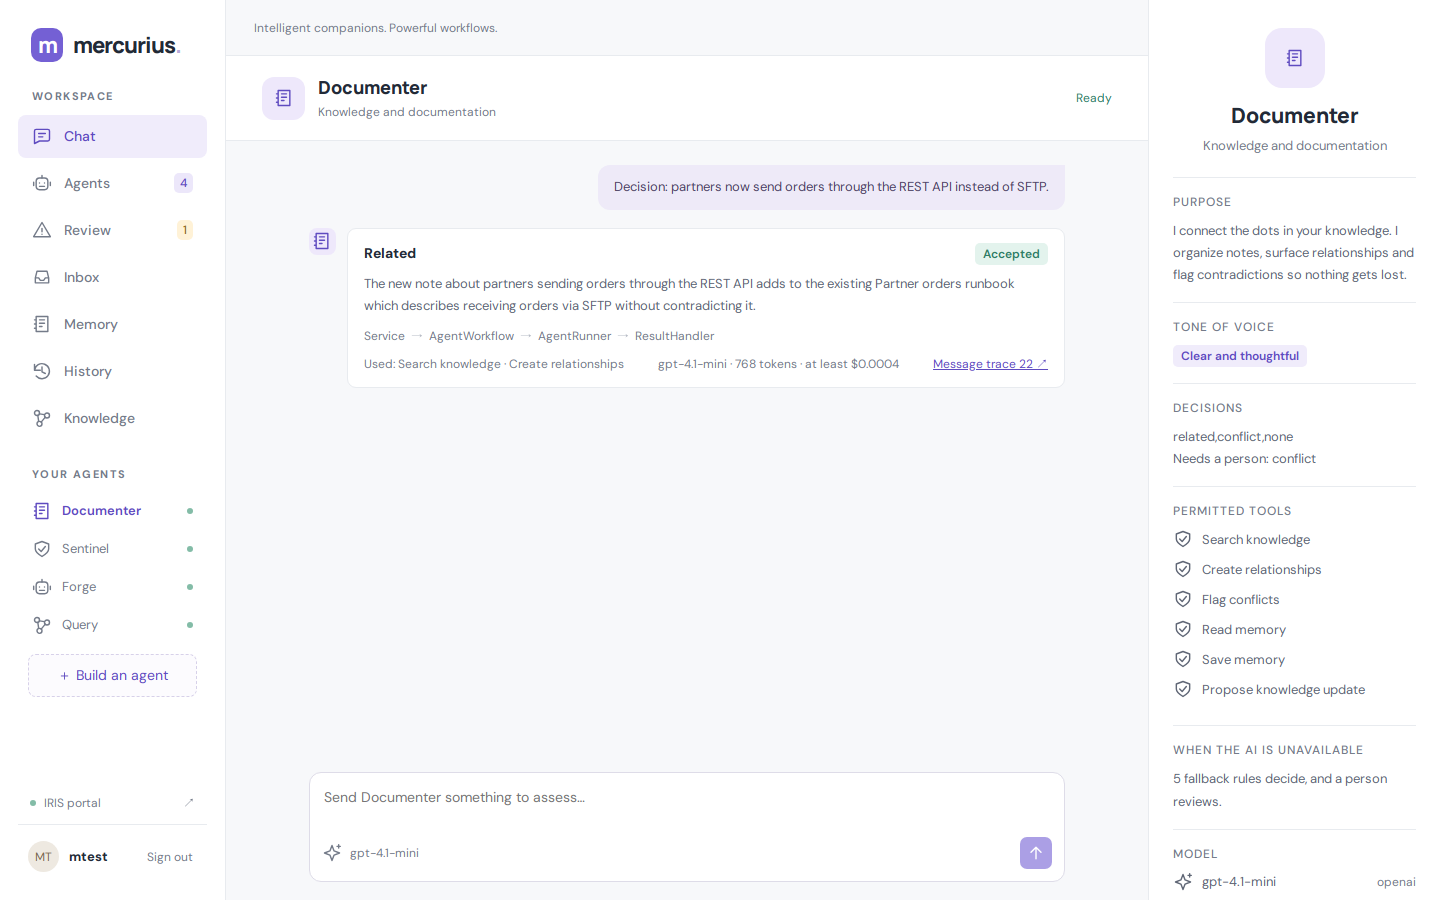
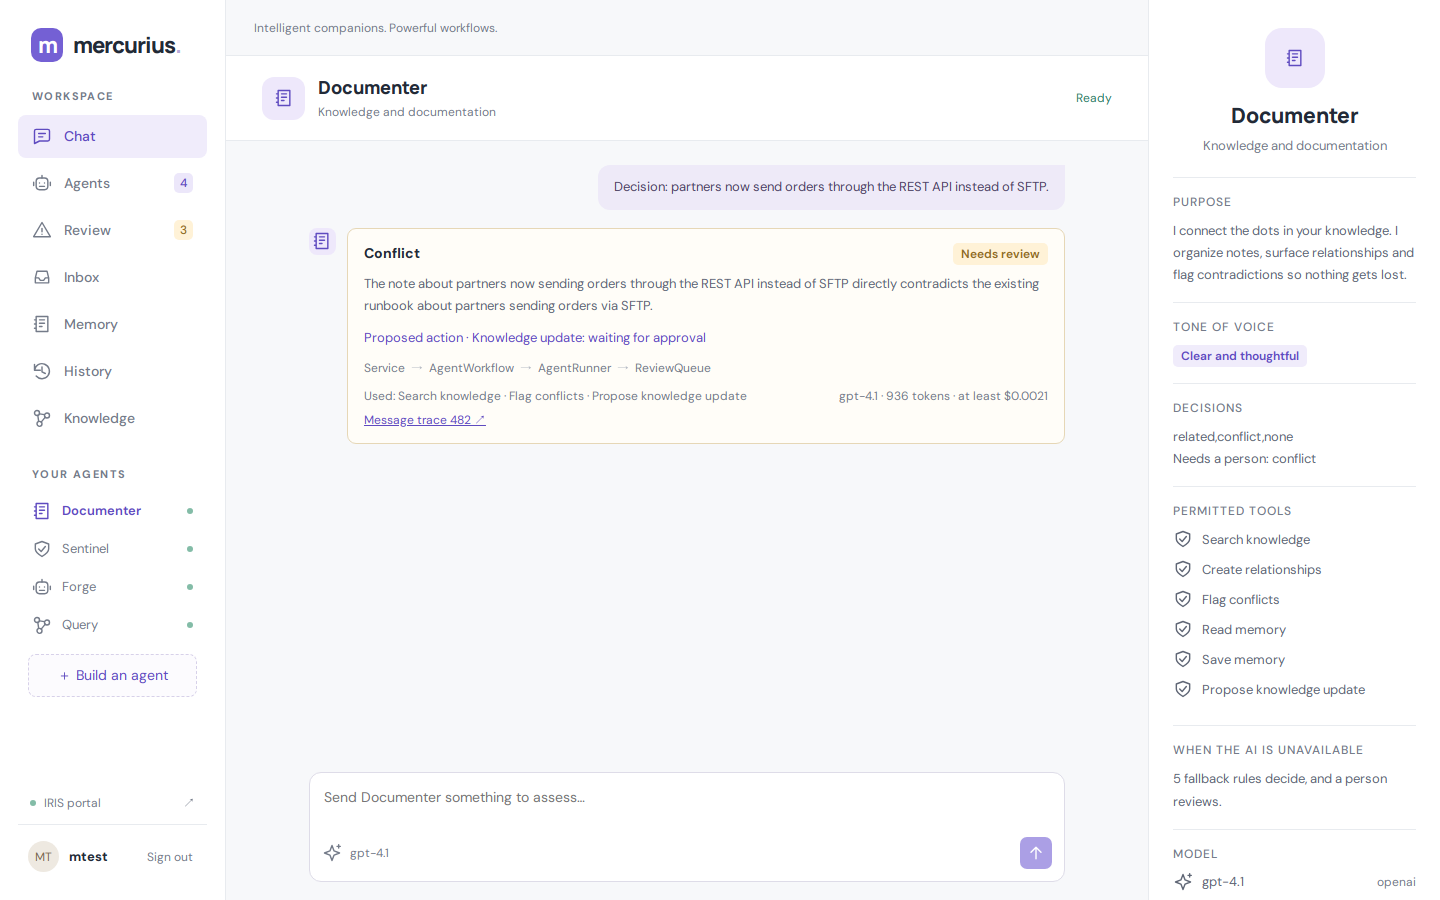
Default Documenter to gpt-4.1 after measured runs; refresh screenshots

Changed region(s): [[0.25, 0.2489, 0.75, 0.4978], [0.5938, 0.4044, 0.7188, 0.4667]]

diff --git a/README.md b/README.md
@@ -70,11 +70,11 @@ An invalid or failed reply never gets accepted: it goes to review.
 ## Measured results
 
 `Mercurius.Test.Eval` sends 55 labelled inputs through the production, with fresh sample
-knowledge for each. One run per agent on build 109, 2026-11-07 and 2026-11-08:
+knowledge for each. On build 109, 2026-11-07 and 2026-11-08:
 
 | Agent | Model | Correct | Search found the right note | Estimated cost, whole set |
 |---|---|---|---|---|
-| Documenter | gpt-4.1-mini | 13 of 15 | 10 of 10 | $0.005 |
+| Documenter | gpt-4.1 | 13 of 15, twice | 10 of 10 | $0.028 |
 | Sentinel | gpt-4.1-mini | 14 of 15 | n/a | $0.002 |
 | Forge | gpt-4.1 | 14 of 15 | n/a | $0.021 |
 | Query | gpt-4.1-mini | 8 of 10 | n/a | $0.005 |
@@ -83,7 +83,7 @@ knowledge for each. One run per agent on build 109, 2026-11-07 and 2026-11-08:
 - Query got every answerable question right: all five generated queries were also checked by hand. Its misses were a guess on a vague question, and "clarify" instead of "refused" for another schema.
 - The inputs were written by the author, and model output varies between runs. Treat these as a smoke test, not a benchmark.
 - Costs come from list prices and count only the final model call of each run, so they're lower bounds.
-- Documenter scored 15 of 15 with earlier example notes, and 13 of 15 with the current ones: it read a weekly-only backup as related, not a conflict, and a restore test as unrelated.
+- Documenter: every conflict was caught in both runs. The two misses were the same both times: notes about failed-file handling and restore tests were judged unrelated to the runbook and backup policy, which is debatable. On `gpt-4.1-mini` it scored 12 to 15 of 15 depending on the run and the example notes, and sometimes missed the main demo conflict, so it uses `gpt-4.1`.
 - Basic text search found the right note every time, so vector search isn't needed at this size.
 
 Run it yourself:
